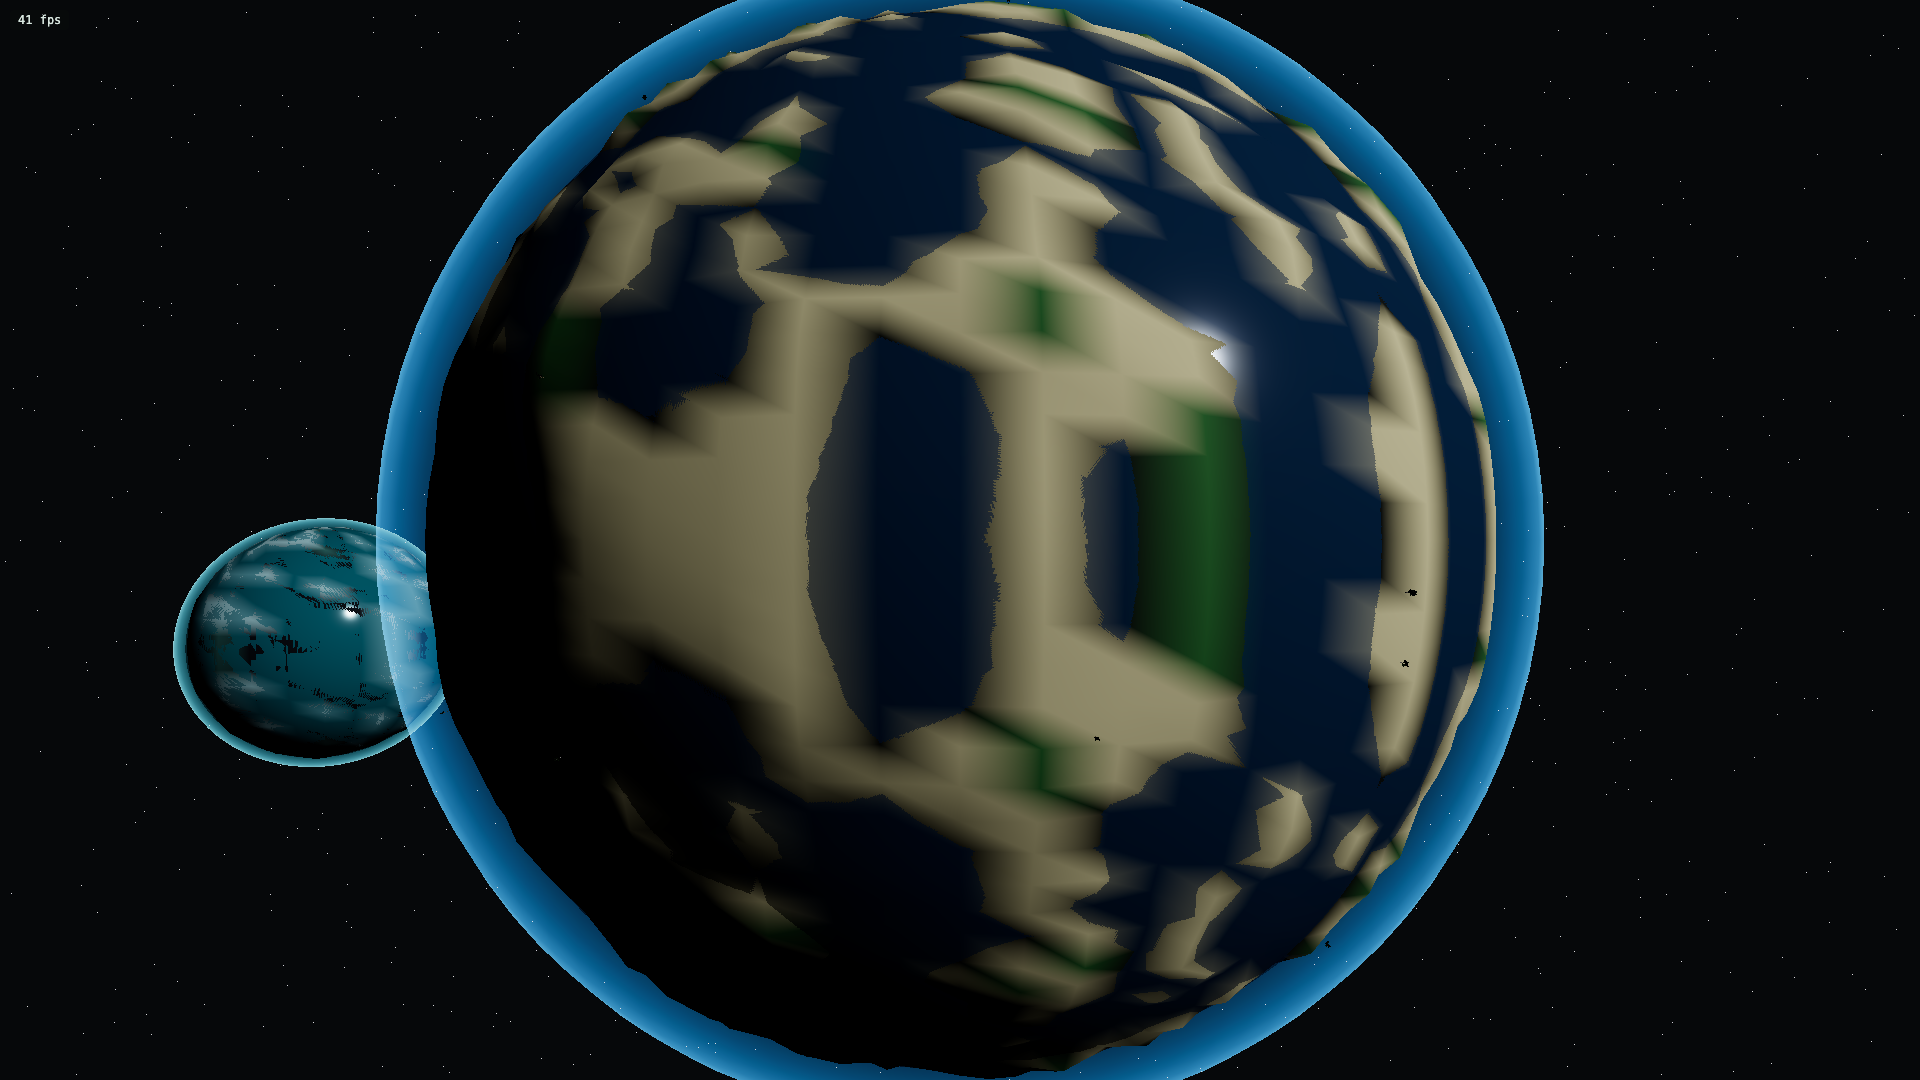
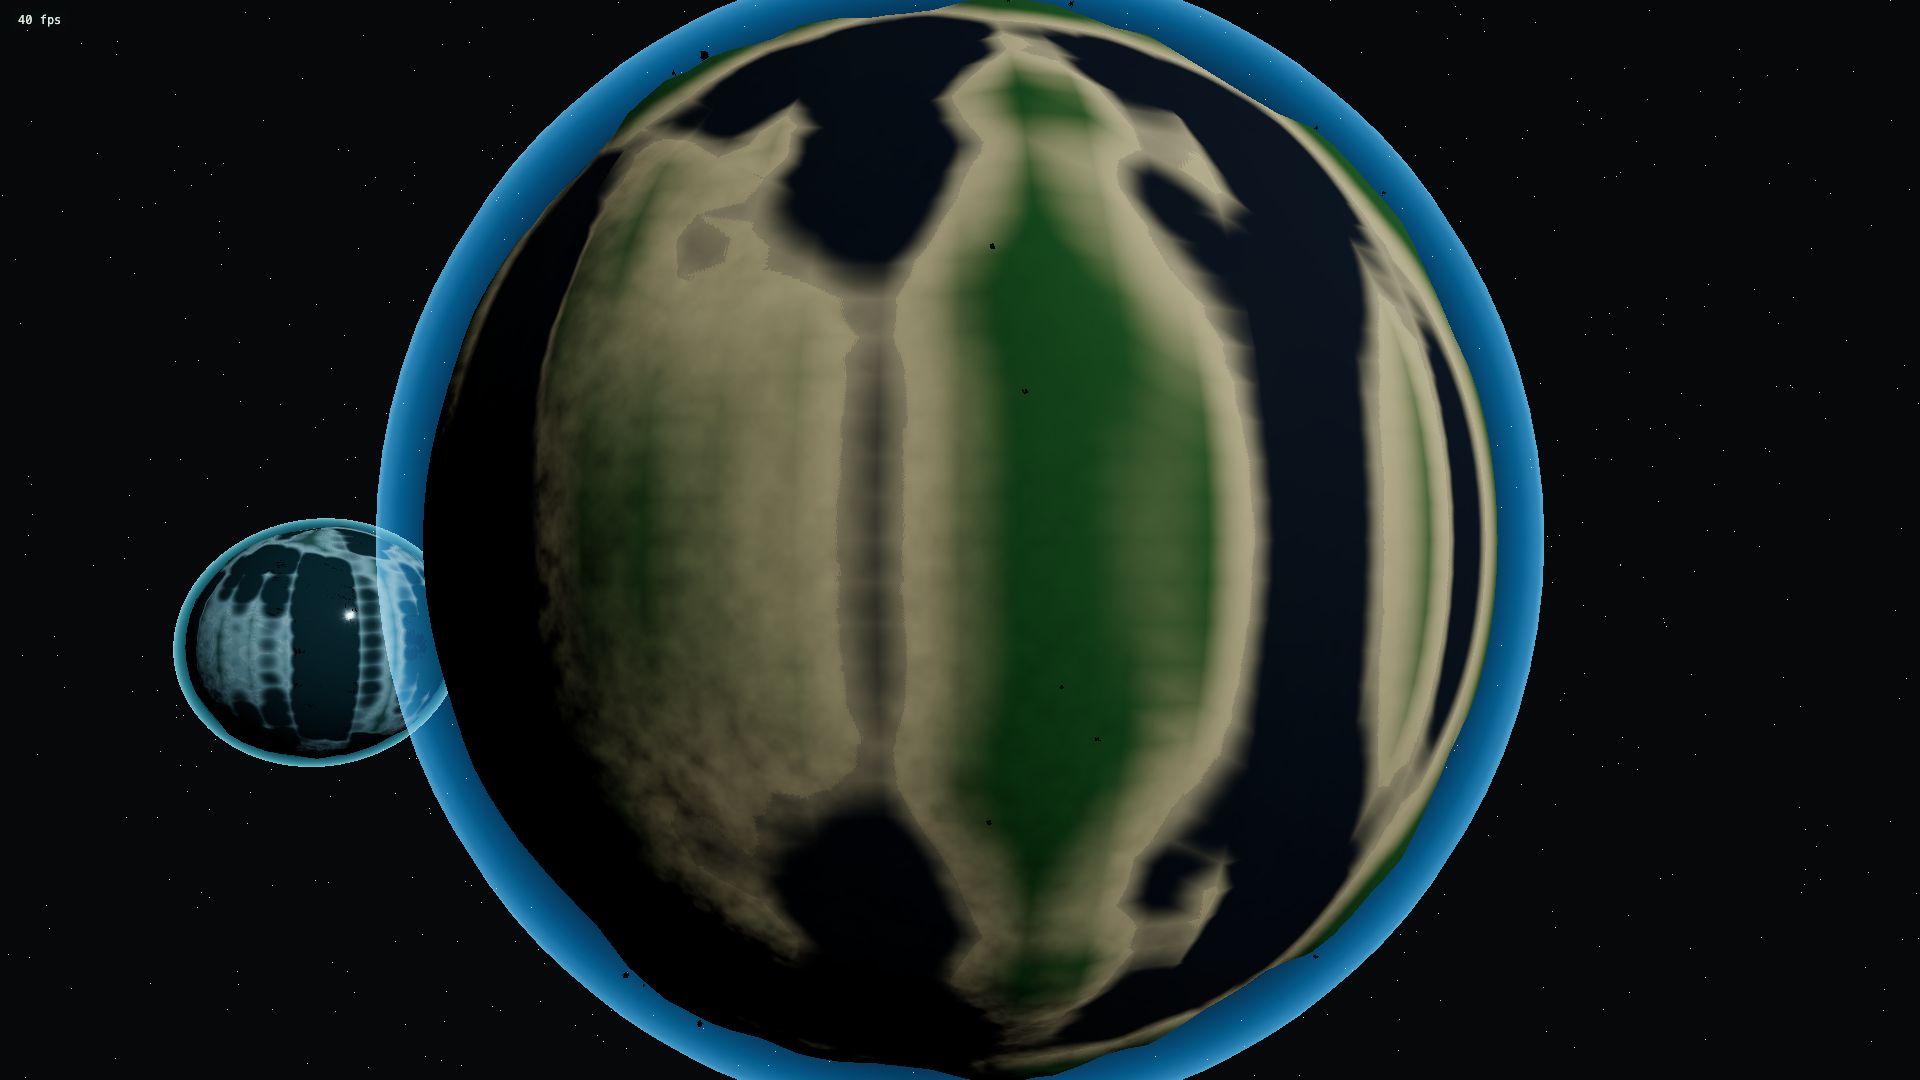
feat: implement high-fidelity TSL terrain blending, procedural normal mapping, and depth-based ocean transparency

diff --git a/src/debug/PlanetScene.ts b/src/debug/PlanetScene.ts
@@ -1,12 +1,26 @@
 import * as THREE from 'three';
-import { MeshBasicNodeMaterial } from 'three/webgpu';
-import { cameraPosition, float, normalWorld, positionWorld, vec3, vec4 } from 'three/tsl';
+import { MeshBasicNodeMaterial, MeshStandardNodeMaterial } from 'three/webgpu';
+import {
+  cameraPosition,
+  float,
+  normalWorld,
+  positionWorld,
+  vec3,
+  vec4,
+  time,
+  mix,
+  smoothstep,
+  normalLocal,
+  transformNormalToView,
+  positionLocal
+} from 'three/tsl';
 import type { WorldContext } from './Scenes';
 import { buildVegLibrary } from '../vegetation/VegLibrary';
 import { VegClass } from '../gpu/passes/Scatter';
+import { fbm3 } from '../gpu/noise/NoiseTSL';
 
 // ----------------------------------------------------------------------------
-// 3D Perlin Noise Implementation
+// 3D Perlin Noise Implementation (CPU side for deformation + asset scattering)
 // ----------------------------------------------------------------------------
 class PerlinNoise {
   private p: number[] = new Array(512);
@@ -97,11 +111,31 @@ class PerlinNoise {
     for (let i = 0; i < octaves; i++) {
       value += this.noise(x * frequency, y * frequency, z * frequency) * amplitude;
       maxValue += amplitude;
+      amplitude *= 0.5;
       frequency *= 2.0;
     }
     return value / maxValue;
   }
 }
+
+// ----------------------------------------------------------------------------
+// Custom Atmosphere Shader (Fresnel Limb Glow in TSL)
+// ----------------------------------------------------------------------------
+const buildAtmosphereMaterial = (color: THREE.Color) => {
+  const viewDir = cameraPosition.sub(positionWorld).normalize();
+  const dVal = normalWorld.dot(viewDir).clamp(0, 1);
+  const intensity = float(1.0).sub(dVal).pow(4.0); // Soft Fresnel limb glow
+
+  const glowNode = vec4(vec3(color.r, color.g, color.b), intensity.mul(0.88));
+
+  return new MeshBasicNodeMaterial({
+    colorNode: glowNode,
+    blending: THREE.AdditiveBlending,
+    side: THREE.BackSide,
+    transparent: true,
+    depthWrite: false
+  });
+};
 
 // ----------------------------------------------------------------------------
 // Scene Builder
@@ -224,11 +258,11 @@ export async function buildPlanetScene(ctx: WorldContext): Promise<void> {
       allowedTrees: [VegClass.Beech, VegClass.Birch, VegClass.Oak],
       allowedFoliage: [VegClass.Fern, VegClass.FlowerUmbel, VegClass.FlowerDaisy],
       colors: {
-        oceanBed: new THREE.Color(0x0e1814),
-        beach: new THREE.Color(0xded6a9),
-        grass: new THREE.Color(0x3c783c),
-        rock: new THREE.Color(0x5a5f5a),
-        snow: new THREE.Color(0xf0f0f5),
+        oceanBed: new THREE.Color(0x0a120d),
+        beach: new THREE.Color(0xdad0a5),
+        grass: new THREE.Color(0x326e32),
+        rock: new THREE.Color(0x565c56),
+        snow: new THREE.Color(0xf5f5fa),
         water: new THREE.Color(0x194b75),
         atmosphere: new THREE.Color(0x4ca3e0)
       }
@@ -243,13 +277,13 @@ export async function buildPlanetScene(ctx: WorldContext): Promise<void> {
       allowedTrees: [VegClass.Joshua, VegClass.Acacia, VegClass.Mesquite],
       allowedFoliage: [VegClass.DryGrassTuft, VegClass.Creosote],
       colors: {
-        oceanBed: new THREE.Color(0x351b0f),
-        beach: new THREE.Color(0xebb373),
-        grass: new THREE.Color(0xcc8139),
-        rock: new THREE.Color(0x943d24),
-        snow: new THREE.Color(0xe0cdb4),
-        water: new THREE.Color(0x7c3f1e),
-        atmosphere: new THREE.Color(0xe08f5c)
+        oceanBed: new THREE.Color(0x2d170b),
+        beach: new THREE.Color(0xe6aa68),
+        grass: new THREE.Color(0xc27732),
+        rock: new THREE.Color(0x8a331c),
+        snow: new THREE.Color(0xdfcbb0),
+        water: new THREE.Color(0x753a1a),
+        atmosphere: new THREE.Color(0xd98452)
       }
     },
     {
@@ -262,13 +296,13 @@ export async function buildPlanetScene(ctx: WorldContext): Promise<void> {
       allowedTrees: [VegClass.Spruce, VegClass.Pine, VegClass.Willow],
       allowedFoliage: [VegClass.Fern, VegClass.SwampReed],
       colors: {
-        oceanBed: new THREE.Color(0x0b1724),
-        beach: new THREE.Color(0xa3d1db),
-        grass: new THREE.Color(0x427674),
-        rock: new THREE.Color(0x445866),
+        oceanBed: new THREE.Color(0x09141f),
+        beach: new THREE.Color(0x99cbda),
+        grass: new THREE.Color(0x3b6e6c),
+        rock: new THREE.Color(0x3e5260),
         snow: new THREE.Color(0xffffff),
-        water: new THREE.Color(0x358e9e),
-        atmosphere: new THREE.Color(0x73d3e6)
+        water: new THREE.Color(0x318796),
+        atmosphere: new THREE.Color(0x6dd0e6)
       }
     }
   ];
@@ -279,10 +313,8 @@ export async function buildPlanetScene(ctx: WorldContext): Promise<void> {
   const deformSphere = (pConfig: typeof planetsConfig[number], detail: number) => {
     const geo = new THREE.SphereGeometry(pConfig.radius, detail, detail);
     const posAttr = geo.attributes.position;
-    const vertexColors = new Float32Array(posAttr.count * 3);
     const localPos = new THREE.Vector3();
     const radial = new THREE.Vector3();
-    const n = new THREE.Vector3();
 
     for (let i = 0; i < posAttr.count; i++) {
       localPos.fromBufferAttribute(posAttr, i);
@@ -301,34 +333,6 @@ export async function buildPlanetScene(ctx: WorldContext): Promise<void> {
     }
 
     geo.computeVertexNormals();
-    const normAttr = geo.attributes.normal;
-
-    for (let i = 0; i < posAttr.count; i++) {
-      localPos.fromBufferAttribute(posAttr, i);
-      n.fromBufferAttribute(normAttr, i);
-      radial.copy(localPos).normalize();
-
-      const height = localPos.length() - pConfig.radius;
-      const slope = 1.0 - n.dot(radial);
-
-      let color = pConfig.colors.grass;
-
-      if (height < 1.5) {
-        color = pConfig.colors.oceanBed;
-      } else if (height < pConfig.scale * 0.12) {
-        color = pConfig.colors.beach;
-      } else if (slope > 0.28) {
-        color = pConfig.colors.rock;
-      } else if (height > pConfig.scale * 0.55) {
-        color = pConfig.colors.snow;
-      }
-
-      vertexColors[i * 3] = color.r;
-      vertexColors[i * 3 + 1] = color.g;
-      vertexColors[i * 3 + 2] = color.b;
-    }
-
-    geo.setAttribute('color', new THREE.BufferAttribute(vertexColors, 3));
     return geo;
   };
 
@@ -341,10 +345,47 @@ export async function buildPlanetScene(ctx: WorldContext): Promise<void> {
     const geoMed = deformSphere(pConfig, 64);   // LOD 1 (Medium)
     const geoLow = deformSphere(pConfig, 24);   // LOD 2 (Low)
 
-    const planetMat = new THREE.MeshStandardMaterial({
-      vertexColors: true,
-      roughness: 0.85,
-      metalness: 0.05
+    // B. Custom TSL Node Material for Planet Terrain Shading (pixel-perfect blending + bump map)
+    const height = positionLocal.length().sub(pConfig.radius);
+    const radialDir = positionLocal.normalize();
+    
+    // 1. Procedural normal mapping/bumpiness (adds craggy rock texture details)
+    const worldPos = positionLocal.add(vec3(pConfig.center.x, pConfig.center.y, pConfig.center.z));
+    const bumpNoise = fbm3(worldPos.mul(0.04), 3); // High frequency noise
+    const perturbedNormal = normalLocal.add(bumpNoise.mul(0.12)).normalize();
+    const viewSpaceNormal = transformNormalToView(perturbedNormal);
+
+    const slope = float(1.0).sub(perturbedNormal.dot(radialDir)).clamp(0, 1);
+
+    // Color definitions in TSL
+    const oceanBedColor = vec3(pConfig.colors.oceanBed.r, pConfig.colors.oceanBed.g, pConfig.colors.oceanBed.b);
+    const beachColor = vec3(pConfig.colors.beach.r, pConfig.colors.beach.g, pConfig.colors.beach.b);
+    const grassColor = vec3(pConfig.colors.grass.r, pConfig.colors.grass.g, pConfig.colors.grass.b);
+    const rockColor = vec3(pConfig.colors.rock.r, pConfig.colors.rock.g, pConfig.colors.rock.b);
+    const snowColor = vec3(pConfig.colors.snow.r, pConfig.colors.snow.g, pConfig.colors.snow.b);
+
+    // 2. Pixel-perfect color blending
+    // Blend beach sand and grass vegetation
+    const tBeach = smoothstep(float(0.0), float(pConfig.scale * 0.12), height);
+    let baseColor = mix(beachColor, grassColor, tBeach);
+
+    // Blend rocky textures on steep slopes
+    const tSlope = smoothstep(float(0.20), float(0.35), slope);
+    baseColor = mix(baseColor, rockColor, tSlope);
+
+    // Blend white snow caps on high altitude peaks
+    const tSnow = smoothstep(float(pConfig.scale * 0.50), float(pConfig.scale * 0.65), height);
+    baseColor = mix(baseColor, snowColor, tSnow);
+
+    // Blend ocean bed mud under the water line
+    const tOcean = smoothstep(float(-5.0), float(1.0), height);
+    const terrainAlbedo = mix(oceanBedColor, baseColor, tOcean);
+
+    const planetMat = new MeshStandardNodeMaterial({
+      colorNode: terrainAlbedo,
+      normalNode: viewSpaceNormal,
+      roughness: 0.88,
+      metalness: 0.04
     });
 
     const meshHigh = new THREE.Mesh(geoHigh, planetMat);
@@ -365,45 +406,56 @@ export async function buildPlanetScene(ctx: WorldContext): Promise<void> {
     lod.position.copy(pConfig.center);
     scene.add(lod);
 
-    // B. Custom Atmosphere Fresnel Glow Shader via native TSL nodes
+    // C. Atmosphere Fresnel glow shell
+    const atmosphereMat = buildAtmosphereMaterial(pConfig.colors.atmosphere);
     const atmosphereGeo = new THREE.SphereGeometry(pConfig.radius * 1.08, 48, 48);
-    const viewDir = cameraPosition.sub(positionWorld).normalize();
-    const dVal = normalWorld.dot(viewDir).clamp(0, 1);
-    const intensity = float(1.0).sub(dVal).pow(4.0); // Fresnel power
-    
-    const glowNode = vec4(vec3(pConfig.colors.atmosphere.r, pConfig.colors.atmosphere.g, pConfig.colors.atmosphere.b), intensity.mul(0.85)); // Fresnel power
-
-    const atmosphereMat = new MeshBasicNodeMaterial({
-      colorNode: glowNode,
-      blending: THREE.AdditiveBlending,
-      side: THREE.BackSide,
-      transparent: true,
-      depthWrite: false
-    });
-
     const atmosphereMesh = new THREE.Mesh(atmosphereGeo, atmosphereMat);
     atmosphereMesh.position.copy(pConfig.center);
     scene.add(atmosphereMesh);
 
-    // C. Ocean sphere
+    // D. Upgraded Ocean Water Material (depth-based opacity + animated wave normals)
+    // 1. Animated wave normals in view space
+    const waveTime = time.mul(0.14);
+    const wavePos = positionLocal.mul(0.08).add(vec3(waveTime, 0, waveTime.mul(0.5)));
+    const waveNoise = fbm3(wavePos, 2);
+    const waterNormal = normalLocal.add(waveNoise.mul(0.08)).normalize();
+    const waterViewNormal = transformNormalToView(waterNormal);
+
+    // 2. Depth calculation
+    const normDir = positionLocal.normalize();
+    const noisePos = normDir.mul(pConfig.radius).add(vec3(pConfig.center.x, pConfig.center.y, pConfig.center.z));
+    const landHeight = fbm3(noisePos.mul(pConfig.freq), 3).mul(pConfig.scale);
+    
+    // Water depth above deformed land surface
+    const depth = float(pConfig.radius + 1.0).sub(float(pConfig.radius).add(landHeight));
+
+    // Deep water color fade (shallow teal/cyan -> deep dark ocean blue)
+    const shallowWater = vec3(pConfig.colors.water.r, pConfig.colors.water.g, pConfig.colors.water.b);
+    const deepWater = vec3(0.03, 0.09, 0.22); // Deep dark navy blue
+    const waterAlbedo = mix(shallowWater, deepWater, smoothstep(float(0.0), float(30.0), depth));
+
+    // Opacity fade (shallow margins are transparent, deep margins are opaque)
+    const waterOpacity = smoothstep(float(0.0), float(25.0), depth).mul(0.68).add(0.22);
+    const waterColorNode = vec4(waterAlbedo, waterOpacity);
+
     const waterGeo = new THREE.SphereGeometry(pConfig.radius + 1.0, 64, 64);
-    const waterMat = new THREE.MeshStandardMaterial({
-      color: pConfig.colors.water,
-      transparent: true,
-      opacity: 0.65,
-      roughness: 0.15,
-      metalness: 0.1
+    const waterMat = new MeshStandardNodeMaterial({
+      colorNode: waterColorNode,
+      normalNode: waterViewNormal,
+      roughness: 0.12, // Highly shiny, catches sun glare
+      metalness: 0.1,
+      transparent: true
     });
+    
     const waterMesh = new THREE.Mesh(waterGeo, waterMat);
     waterMesh.position.copy(pConfig.center);
     scene.add(waterMesh);
 
-    // D. Procedural Asset Placement
+    // E. Procedural Asset Placement
     const assetGroup = createPlanetAssetGroup(pConfig.center, 3000);
     const rng = seed.rng(`planet-scatter-${pIdx}`);
 
-    // Generate vegetation instances on the deformed high-resolution surface
-    const sampleCount = 1200; // Increased to cover larger radius
+    const sampleCount = 1200;
     const instMatrix = new THREE.Matrix4();
     const instPos = new THREE.Vector3();
     const instQuat = new THREE.Quaternion();
@@ -420,7 +472,7 @@ export async function buildPlanetScene(ctx: WorldContext): Promise<void> {
       const ry = Math.sin(phi) * Math.sin(theta);
       const rz = Math.cos(phi);
 
-      const normDir = new THREE.Vector3(rx, ry, rz);
+      const sNormDir = new THREE.Vector3(rx, ry, rz);
 
       const ptNoise = noiseGen.fbm(
         (rx * pConfig.radius + pConfig.center.x) * pConfig.freq,
@@ -429,19 +481,17 @@ export async function buildPlanetScene(ctx: WorldContext): Promise<void> {
         4
       );
 
-      const height = ptNoise * pConfig.scale;
+      const heightVal = ptNoise * pConfig.scale;
 
-      // Restrict vegetation placement to land (above water line, below snow caps)
-      if (height > pConfig.scale * 0.14 && height < pConfig.scale * 0.55) {
-        instPos.copy(normDir).multiplyScalar(pConfig.radius + height);
+      // Restrict vegetation placement to dry land areas
+      if (heightVal > pConfig.scale * 0.14 && heightVal < pConfig.scale * 0.55) {
+        instPos.copy(sNormDir).multiplyScalar(pConfig.radius + heightVal);
 
-        // Align rotation with spherical normal
-        instQuat.setFromUnitVectors(alignY, normDir);
+        instQuat.setFromUnitVectors(alignY, sNormDir);
         const yawQ = new THREE.Quaternion();
-        yawQ.setFromAxisAngle(normDir, rng.float() * Math.PI * 2);
+        yawQ.setFromAxisAngle(sNormDir, rng.float() * Math.PI * 2);
         instQuat.premultiply(yawQ);
 
-        // Tree scaling (proportionate relative to planet radius)
         const sc = 0.55 + rng.float() * 0.45;
         instScale.set(sc, sc, sc);
 
@@ -475,7 +525,6 @@ export async function buildPlanetScene(ctx: WorldContext): Promise<void> {
     const camPos = engine.camera.position;
     planetAssets.forEach(planet => {
       const dist = camPos.distanceTo(planet.center);
-      // Completely hide asset meshes if the planet is far away
       const isVisible = dist < planet.radius * 3.5;
       planet.meshes.forEach(m => {
         m.visible = isVisible;
@@ -483,9 +532,9 @@ export async function buildPlanetScene(ctx: WorldContext): Promise<void> {
     });
   });
 
-  // 6. Initial camera pose (looking at first planet)
+  // 6. Initial camera pose
   ctx.hooks.initialPose = {
-    p: [0, 0, 2200], // Start 2200m away (properly scaled distance)
+    p: [0, 0, 2200],
     yaw: 0,
     pitch: 0
   };